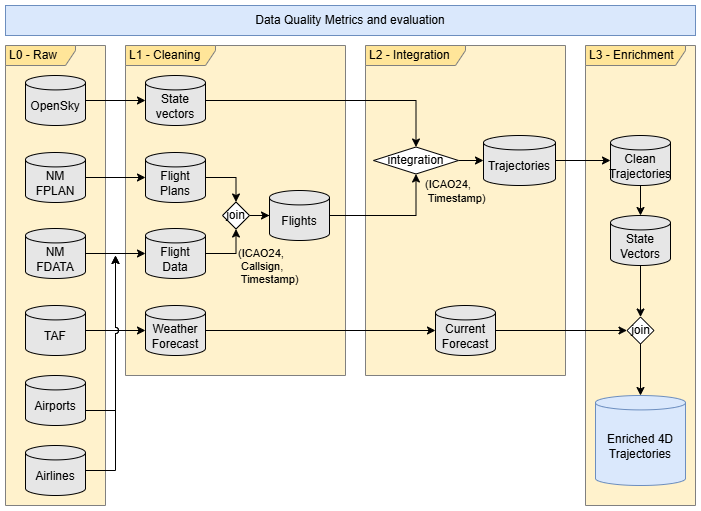
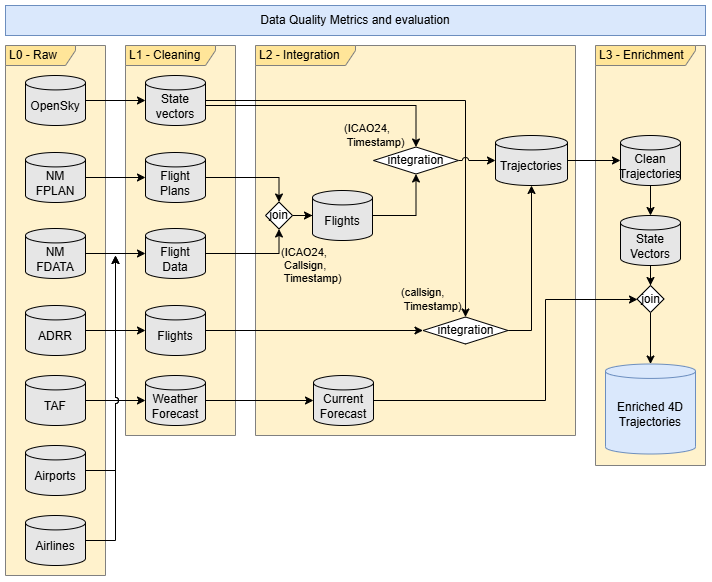
Improve integration and ADRR docs

diff --git a/docs/pipeline/integration.md b/docs/pipeline/integration.md
@@ -1,51 +1,29 @@
 # Data Integration Pipeline (L1 → L2)
 
-This document describes the data integration stage that combines cleaned individual sources (L1) into integrated datasets (L2). The primary output of this stage is the construction of raw 4D trajectories by matching flight metadata with surveillance observations.
+This document describes the data integration stage that combines cleaned individual sources (L1) into integrated datasets (L2). The primary output of this stage is the construction of raw 4D trajectories by matching flight metadata (either from Network Manager or Eurocontrol's ADRR) with surveillance observations. Weather data is also consolidated to provide a continuous representation of the forecasted weather conditions at the destination airport.
 
 ---
 
-## Overview
+## Network Manager Flight consolidation
 
-The integration pipeline operates on L1 cleaned data and produces L2 integrated datasets. The process consists of two main stages:
-
-1. **Flight Record Consolidation**: Merging Network Manager flight plans and flight data
-2. **Trajectory Construction**: Matching flight records with OpenSky state vectors
-
----
-
-## Stage 1: Flight Record Consolidation
-
-### Purpose
-
-Network Manager provides flight information through two complementary data streams:
+Network Manager provides flight information through two complementary data streams that must be merged to create a complete view of each flight:
 - **Flight Plans (FPLAN)**: Pre-flight planned information
 - **Flight Data (FDATA)**: Operational execution information
 
-These must be merged to create a complete view of each flight containing both planned and actual operational data.
+### Version Selection
 
-### Consolidation Process
+Both FPLAN and FDATA messages are versioned and may be updated multiple times per flight. The most updated information is selected for each category:
 
-#### Version Selection
+- **Flight Plan:** Select the last message per flight (by timestamp)
+- **Flight Data:** For TERMINATED flights with multiple updates, select first TERMINATED message (since in some flights later messages ammend the previous, and contain only some attributes); otherwise select latest version.
 
-Both FPLAN and FDATA messages are versioned and may be updated multiple times per flight.
+### Attribute Consolidation
 
-**Flight Plan:** Select the last message per flight (by timestamp)
-- Rationale: Latest version contains most complete and up-to-date planning information
+When attributes appear in both sources, the values in FDATA values are preferred over FPLAN values (actual over planned). Consolidated attributes include: `icao24`, `callsign`, `estimatedOffBlockTime`, `aerodromeOfDeparture`, `aerodromeOfDestination`, `operator`, `operatingOperator`, `aircraftType`.
 
-**Flight Data:** For TERMINATED flights with multiple updates, select first TERMINATED message; otherwise select latest version
-- Rationale: Avoid using late updates that modify arrival times after landing
+### Temporal Consistency Validation
 
-#### Attribute Consolidation
-
-When attributes appear in both sources, conflicts are resolved by:
-- **Preferring FDATA values** over FPLAN values (actual over planned)
-- Using `combine_first()` to fill missing values from either source
-
-Consolidated attributes include: `icao24`, `callsign`, `estimatedOffBlockTime`, `aerodromeOfDeparture`, `aerodromeOfDestination`, `operator`, `operatingOperator`, `aircraftType` (all FDATA preferred).
-
-#### Temporal Consistency Validation
-
-After merging, flights are filtered to ensure FPLAN and FDATA refer to the same flight:
+We have detected some flight ID reutilizations across long periods of time. After merging, flights are filtered to ensure FPLAN and FDATA refer to the same flight:
 
 ```python
 valid_flights = flights[
@@ -54,51 +32,29 @@ valid_flights = flights[
 ]
 ```
 
-**Purpose:** Detect ifplId reuse where FPLAN and FDATA refer to different flights.
-
-### Output
-
-**Location:** `data/L1/nmFlights/nm.flights.{date}.parquet`
-
-**Schema:** 22 attributes combining FPLAN and FDATA information (see FLIGHT_ATTRIBUTE_NAMES in code)
-
----
-
-## Stage 2: Trajectory Construction
-
-### Purpose
+## Trajectory construction
 
 Match consolidated flight records with OpenSky state vectors to construct 4D trajectories. Each trajectory consists of:
 - Flight metadata (origin, destination, times, identifiers)
 - Sequence of state vectors (position, velocity, altitude observations)
 
-### Matching Strategy
+Matching these data leverages aircraft or flight identifiers available. In particular, Network Manager enables matching by ICAO24 address and callsign, while ADRR only supports matching by flight callsign. In addition to identifier matching, temporal filtering is also applied to ensure that state vectors are assigned to the correct flight.
 
-#### Identifier Matching
-
-State vectors are matched to flights by **ICAO24 aircraft address**.
-
-**Rationale:**
-- ICAO24 is globally unique aircraft identifier
-- More reliable than callsign (which can be missing or reused)
-- Directly comparable between NM and OpenSky data
-
-**Optimization:** Vectors are pre-filtered to only include ICAO24 values present in the flight list before joining.
-
-#### Temporal Filtering
-
-After identifier matching, vectors are filtered by temporal overlap with flight execution:
+To this end, state vectors are filtered based on the reported takeoff and landing times, with a tolerance threshold (`TIME_EXPANSION`) to account for potential desynchronization between data sources and delays in the reception of surveillance data. Flights extracted from ADRR use off-block time instead of takeoff time, since the latter is not available in the dataset.
 
 ```python
+# NM
 matched_vectors = vectors[
     (timestamp >= actualTakeOffTime - TIME_EXPANSION) &
     (timestamp <= actualTimeOfArrival + TIME_EXPANSION)
 ]
+
+# ADRR
+matched_vectors = vectors[
+    (timestamp >= actualOffBlockTime - TIME_EXPANSION) &
+    (timestamp <= actualTimeOfArrival + TIME_EXPANSION)
+]
 ```
-
-**TIME_EXPANSION:** 600 seconds (10 minutes)
-
-**Purpose:** Account for uncertainty in actual times and capture vectors near airports.
 
 ### Processing Flow
 
@@ -106,7 +62,7 @@ matched_vectors = vectors[
 2. Remove return flights (same origin and destination)
 3. For each state vector file:
    - Load vectors
-   - Pre-filter by ICAO24
+   - Pre-filter by ICAO24/callsign
    - Join with flights
    - Filter by temporal overlap
    - Accumulate matched vectors
@@ -118,45 +74,7 @@ matched_vectors = vectors[
 
 Flights crossing midnight require loading vectors from both the current date and the next day, as OpenSky vectors are partitioned by date.
 
-### Output Structure
-
-#### Trajectory Vectors (Parquet)
-
-**Location:** `data/L2/nmTrajectories/tray.{date}.parquet`
-
-All state vectors for all trajectories in a single file, with `ifplId` added to link to flight metadata.
-
-#### Trajectory Metadata (JSON)
-
-**Location:** `data/L2/nmTrajectories/flightDate={date}/tray.{ifplId}.json`
-
-One JSON file per trajectory containing:
-- Flight identifiers and airports
-- Temporal information (estimated, actual, observation times)
-- Vector count and data sources
-- Processing status marker
-
-#### Integration Metrics (JSON)
-
-**Location:** `reports/L2_integration_metrics/integration.{date}.json`
-
-Tracks integration success rates and data volume:
-
-| Metric | Description |
-|--------|-------------|
-| `num_flights_initial` | Flights after airport filtering |
-| `num_flights` | Flights after removing return flights |
-| `returned_flights` | Removed return flights |
-| `num_vectors` | Total state vectors processed |
-| `num_joined_vectors` | Vectors matched to flights |
-| `num_joined_flights` | Flights with matched vectors |
-| `num_joined_vectors_final` | Vectors after trajectory filtering |
-| `num_joined_flights_final` | Final trajectory count |
-| `removed_short_trajectories` | Trajectories below minimum threshold |
-
----
-
-## Integration Parameters
+### Integration Parameters
 
 Defined in `trajectoryIntegration/params.py`:
 
@@ -167,19 +85,50 @@ Defined in `trajectoryIntegration/params.py`:
 
 ---
 
-## Relationship with Pipeline Stages
 
-```
-L0 (Raw)          L1 (Cleaned)        L2 (Integrated)     L3 (Trajectories)
-────────          ────────────        ───────────────     ─────────────────
-NM FPLAN    →     NM FPLAN     ──┐
-                                 ├──→  NM Flights ──┐
-NM FDATA    →     NM FDATA     ──┘                  │
-                                                    ├──→  Raw         →  Clean
-OpenSky     →     OpenSky      ─────────────────────┘     Trajectories   Trajectories
-Vectors           Vectors                                 (L2)           (L3)
-```
+## Integration Metrics (JSON)
 
-**Input from L1:** Cleaned, deduplicated, normalized individual sources with schema standardization complete.
+**Location:** `reports/L2_integration_metrics/integration.{date}.json`
 
-**Output to L3:** Integrated trajectories with matched surveillance and metadata, ready for trajectory-specific processing (sorting, outlier removal).
+Aggregated per date.
+
+| Metric | Description |
+|--------|-------------|
+| `num_vectors_initial` | Total state vectors processed |
+| `num_flights_initial` | Flights after airport filtering |
+| `num_vectors_joined` | Vectors matched to flights |
+| `num_flights_joined` | Flights with matched vectors |
+| `num_vectors_final` | Vectors after trajectory filtering |
+| `num_flights_final` | Final trajectory count |
+| `removed_short_trajectories` | Trajectories below minimum threshold |
+
+---
+
+## Weather conditions
+
+Weather conditions at the airport are continuously evolving: to provide an accurate description of such conditions, it is necessary to keep track of the updates across different forecasts.
+
+TAF reports are published every 6 hours, and provide a forecast describing the following 30 hours. New forecasts can be published in addition to the routine periodicity if the weather conditions change drastically, or if ammendments or corrections have to be made to previous forecasts. Thus, the _current weather forecast_ at the airport is consolidated as follows:
+
+1. Routine forecasts define the _base_ weather conditions for the next 30 hours. 
+2. If stable changes (BECMG clauses) are expected to occur, the new conditions superseed the base conditions.
+3. If temporal changes (TEMPO clauses), which only last a limited amount of time, are included in the routine report, the temporal conditions superseed any base or stable conditions.
+4. The publication of new routine forecasts, corrections (COR reports) and amendments (AMD reports), superseeds all previous forecasts.
+
+<figure><p align="center">
+<img src="../assets/weather_report.png" width="700"  alt=""></p>
+<figcaption><p align="center">Overview of the cleaning pipeline.</p></figcaption>
+</figure>
+
+The validity period of each forecast is calculated according to their type:
+1. Base conditions (routine, COR, AMD) are set to be valid up to 30h since the issue time, unless stated otherwise.
+2. Stable changes are set to be valid from the moment they occur (`time_from`) up to the validity limit of the report.
+3. Temporal changes are valid during the period indicated by `time_from` and `time_to` attributes of the TEMPO clause.
+
+Currently, potential changes (PROB30|40 clauses) are not used to describe weather conditions at the airport.
+
+As a result, the weather at the airport is described by a set of weather conditions that start at a given timestamp, and last until the validity time limit defined for that prevalent weather conditions (that is, until different conditions are forecasted either by changes or new forecasts). 
+
+### Matching between State vectors and weather conditions
+
+Each state vector is assigned the weather conditions that are current at the airport at the timestamp of that vector, that is, the weather conditions which validity period contains the moment the state vector was emmited.

diff --git a/docs/pipeline/enrichment.md b/docs/pipeline/enrichment.md
@@ -4,3 +4,50 @@
 <img src="../assets/trajectory_processing_pipeline.png" width="600"  alt=""></p>
 <figcaption><p align="center">Overview of the enrichment pipeline.</p></figcaption>
 </figure>
+
+## Trajectory sorting
+
+### Modes
+
+- Complete trajectory
+- Segmentation by flight phase
+
+### Techniques
+
+#### Nearest neighbours
+
+#### 2-opt and variants
+
+- 2-opt
+- Restricted 2-opt
+- Progressive 2-opt
+
+#### Distance functions
+
+- Euclidean
+- Haversine
+- Cost function with directional factor
+
+## Sorting Metrics (JSON)
+
+**Location:** `reports/L3_sort_metrics/sortTray.{date}.{traj_id}.json`
+
+Individual metrics per trajectory.
+
+| Metric | Description |
+|--------|-------------|
+| `num_flights_initial` | Flights after airport filtering |
+| `num_flights` | Flights after removing return flights |
+| `returned_flights` | Removed return flights |
+| `num_vectors` | Total state vectors processed |
+| `num_joined_vectors` | Vectors matched to flights |
+| `num_joined_flights` | Flights with matched vectors |
+| `num_joined_vectors_final` | Vectors after trajectory filtering |
+| `num_joined_flights_final` | Final trajectory count |
+| `removed_short_trajectories` | Trajectories below minimum threshold |
+
+---
+
+## Timestamp calculation
+
+## Altitude calculation

diff --git a/docs/raw_data/network_manager.md b/docs/raw_data/network_manager.md
@@ -125,7 +125,7 @@ We only leverage flight data at the moment in this project. Flight data is provi
 | Actual Arrival Time | datetime (UTC) | `01-06-2023 07:57:13` | Time of arrival (UTC) based on the ATFM-updated flight plan. It is the time at which the aircraft lands at the aerodrome. |
 | AC Type | string | `"A359"` | ICAO aircraft type designator.  |
 | AC Operator | string | `"DAL"` | Three-letter ICAO operator code. If the operator is unknown, not provided in the flight plan the value is "ZZZ".  |
-| AC Registration | string | `"N576DZ"` | Aircraft registration. |
+| AC Registration | string | `"N576DZ"` | Callsign of the flight. |
 | ICAO Flight Type | string | `"S"` | ICAO Flight Type: S – Scheduled, N - Non-scheduled commercial operation |
 | Requested FL | float64 | `370.0` | Requested cruising flight level from the flight plan.  |
 | Actual Distance Flown (nm) | int64 | `3508` | Distance flown in nautical miles. |
